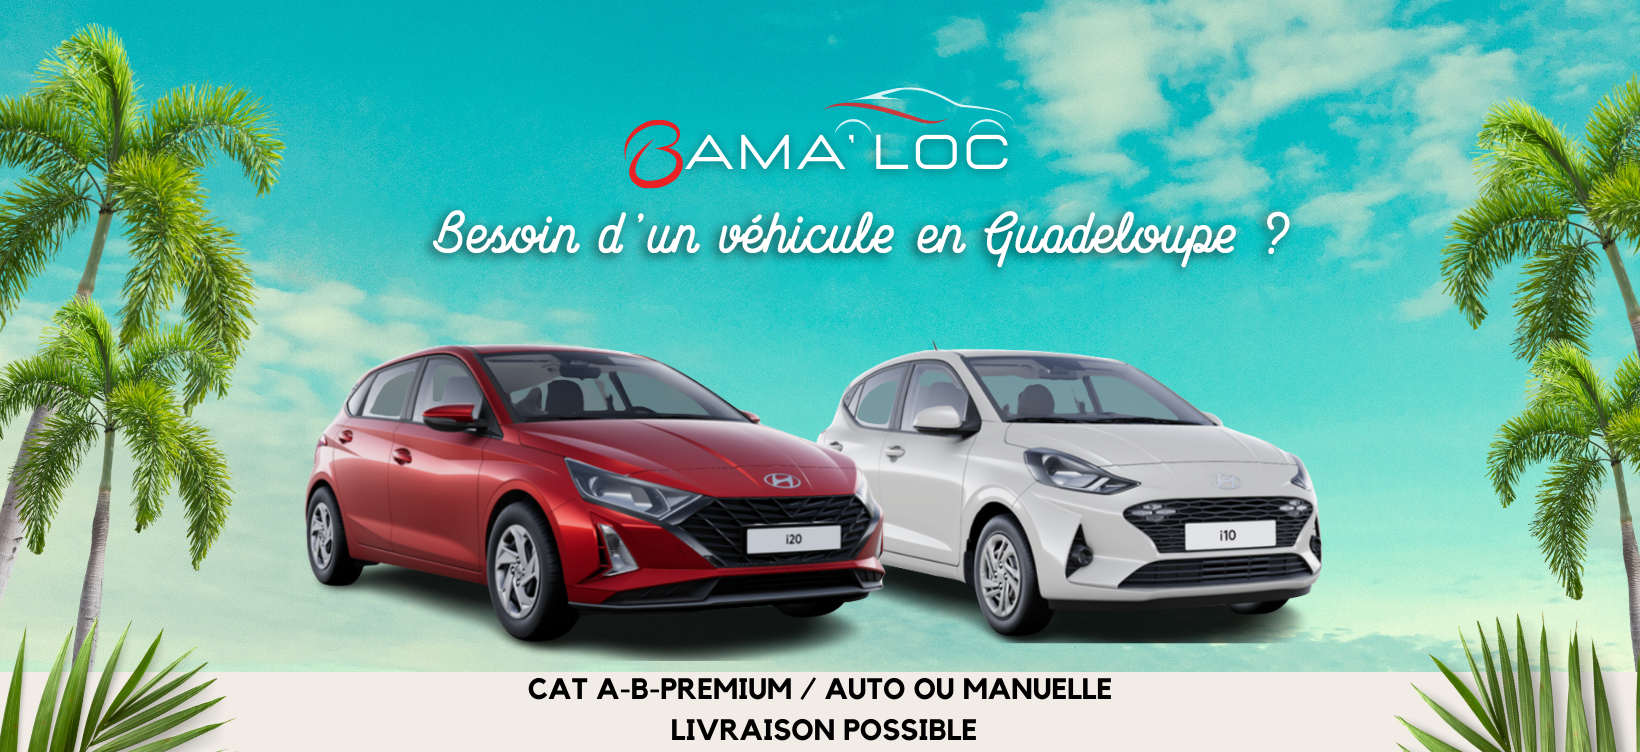
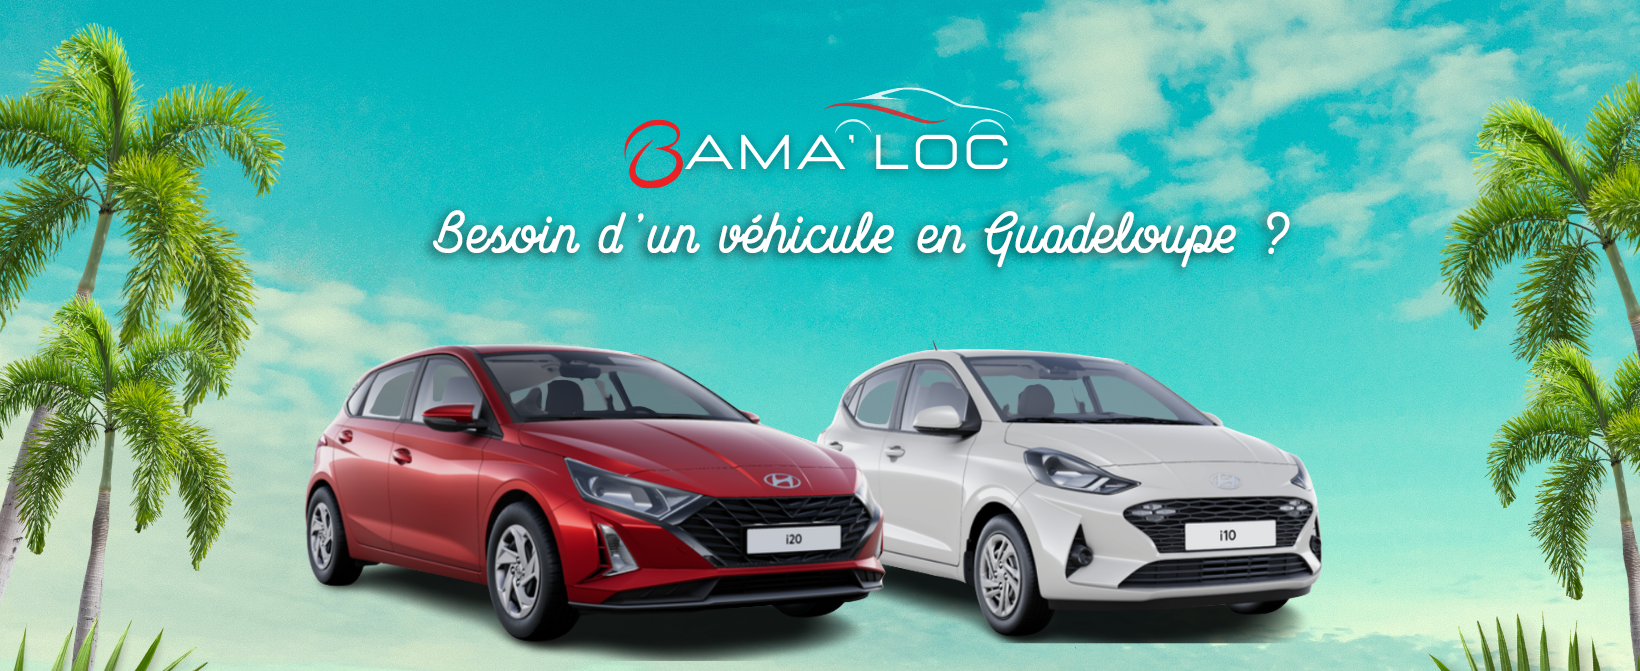
update carrousel

diff --git a/src/pages/Home.jsx b/src/pages/Home.jsx
@@ -5,24 +5,34 @@ import car2 from "../assets/images/renault-clio-5.png";
 import car3 from "../assets/images/renault-clio-5.png";
 import car4 from "../assets/images/renault-clio-5.png";
 
-const images = [car1, car2, car3, car4];
-
 const Home = () => {
+  const images = [car1, car2, car3, car4];
   const [currentIndex, setCurrentIndex] = useState(0);
+  const [transition, setTransition] = useState(true);
 
   const nextImage = () => {
-    setCurrentIndex((prevIndex) => (prevIndex + 1) % images.length);
+    if (currentIndex === images.length - 1) {
+      setTransition(false);
+      setCurrentIndex(0);
+    } else {
+      setTransition(true);
+      setCurrentIndex(currentIndex + 1);
+    }
   };
 
   const prevImage = () => {
-    setCurrentIndex(
-      (prevIndex) => (prevIndex - 1 + images.length) % images.length
-    );
+    if (currentIndex === 0) {
+      setTransition(false);
+      setCurrentIndex(images.length - 1);
+    } else {
+      setTransition(true);
+      setCurrentIndex(currentIndex - 1);
+    }
   };
 
   return (
     <section className="test">
-      <div className="hero"></div>
+      <div className="hero" />
       <NavLink to="vehicule">
         <button className="btn-hero">Découvrez Nos Voitures</button>
       </NavLink>
@@ -31,7 +41,10 @@ const Home = () => {
         <div className="carrousel">
           <div
             className="carrousel-images"
-            style={{ transform: `translateX(-${currentIndex * 100}%)` }}
+            style={{
+              transform: `translateX(-${currentIndex * 100}%)`,
+              transition: transition ? "transform 0.5s ease" : "none",
+            }}
           >
             {images.map((image, index) => (
               <div
@@ -39,19 +52,17 @@ const Home = () => {
                 className="carrousel-image"
                 style={{
                   backgroundImage: `url(${image})`,
-                  width: "100%",
-                  flex: "0 0 100%",
                 }}
-              ></div>
+              />
             ))}
           </div>
+          <button className="prev" onClick={prevImage}>
+            &#8249;
+          </button>
+          <button className="next" onClick={nextImage}>
+            &#8250;
+          </button>
         </div>
-        <button className="prev" onClick={prevImage}>
-          &#8249;
-        </button>
-        <button className="next" onClick={nextImage}>
-          &#8250;
-        </button>
       </div>
     </section>
   );

diff --git a/src/styles/home.css b/src/styles/home.css
@@ -20,17 +20,17 @@
 
 .hero {
   width: 100%;
-  height: 100vh;
+  height: 71vh;
   background-image: url("../assets/images/Banniere-BamaLoc.png");
-  background-size: cover;
-  background-position: center;
+  background-size: 100%;
+  background-position: top center;
   background-repeat: no-repeat;
   background-attachment: fixed;
 }
 
 .btn-hero {
   position: fixed;
-  top: 41%;
+  top: 38%;
   left: 50%;
   transform: translate(-50%, -50%);
   background-color: transparent;
@@ -55,6 +55,11 @@
   max-width: 800px;
   margin: 0 auto;
   overflow: hidden;
+  padding-block-start: 5rem;
+}
+
+.carrousel-container h1 {
+  text-align: center;
 }
 
 .carrousel {
@@ -64,8 +69,8 @@
 
 .carrousel-images {
   display: flex;
-  transition: transform 0.5s ease;
   width: 100%;
+  transition: transform 0.5s ease;
 }
 
 .carrousel-image {
